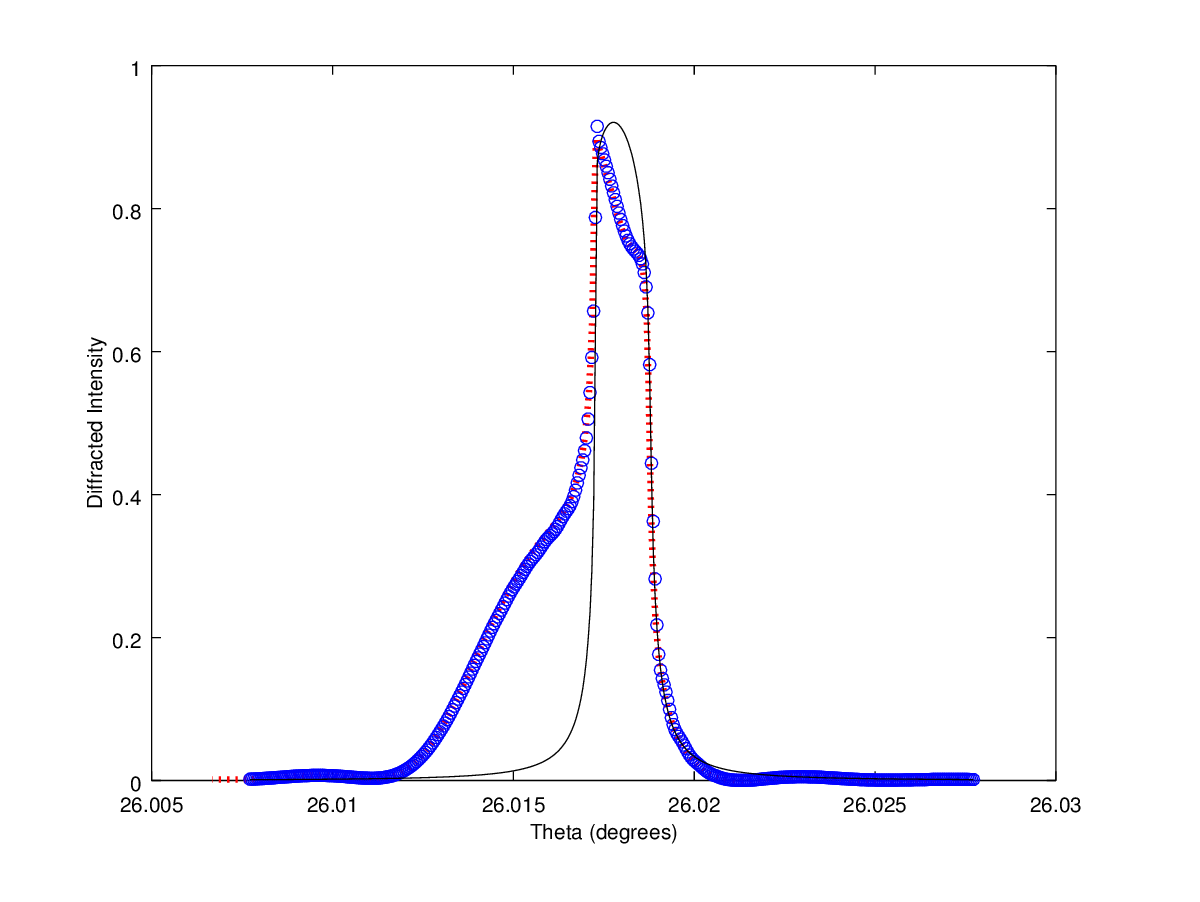
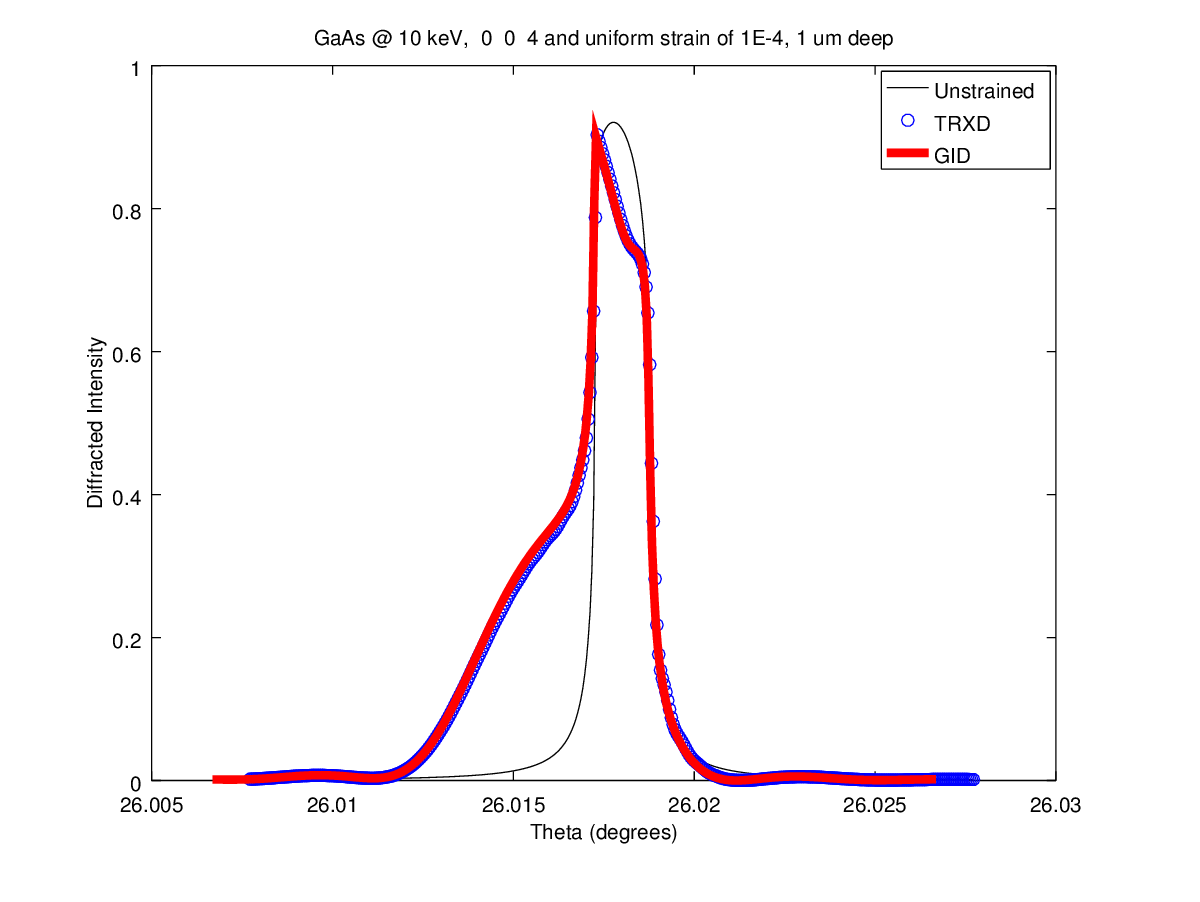
greement with GID

diff --git a/TXRD_Driver_example.m b/TXRD_Driver_example.m
@@ -34,19 +34,23 @@ elseif strcmp(model,'benchmark')
   benchmark = load('benchmark.txt');
   Int_BM = benchmark(:,2);
   Ang_BM = benchmark(:,1);
-  figure(20);clf;hold on;
-    plot(Ang_BM,Int_BM,':r','LineWidth',3)
-    plot(angles*180/pi, A,'ob')
+  figure(20);clf;hold all;
     plot(angles*180/pi, A0,'-k')
+    plot(angles*180/pi, A,'ob')
+    plot(Ang_BM,Int_BM,'r','LineWidth',4)
     xlabel('Theta (degrees)')
     ylabel('Diffracted Intensity')
+    legend(['Unstrained';'TRXD';'GID'])
+    title([num2str(crystal) ' @ ' num2str(energy) ' keV,  ' num2str(reflection) ' and uniform strain of 1E-4, 1 um deep'])
   hold off;
-  figure(21);clf;hold on;
-    semilogy(Ang_BM,Int_BM,':r','LineWidth',3)
-    semilogy(angles*180/pi, A,'ob')
+  figure(21);clf;hold all;
     semilogy(angles*180/pi, A0,'-k')
+    semilogy(angles*180/pi, A,'ob')
+    semilogy(Ang_BM,Int_BM,'r','LineWidth',4)
     xlabel('Theta (degrees)')
     ylabel('Diffracted Intensity')
+    legend(['Unstrained';'TRXD';'GID'])
+    title([num2str(crystal) ' @ ' num2str(energy) ' keV,  ' num2str(reflection) ' and uniform strain of 1E-4, 1 um deep'])
   hold off;
 
 end

diff --git a/main/Wiestep.m b/main/Wiestep.m
@@ -83,8 +83,8 @@ cond3b = (y >= q2);
 cond3 = cond3a .* cond3b;  % logical AND
 cond4 = (y > q1);
 % Finally multiply each condition by the appropriate calculation and add all arrays
-s = cond1.*(s1 + 1i*s2) + cond2.*(s2 + 1i*s1) - cond3.*(-s2 + 1i*s1) + cond4.*(-s1 + 1i*s2);
-% Note above changed sign in front of cond3 to minus
+s = cond1.*(s1 + 1i*s2) - cond2.*(s2 + 1i*s1) - cond3.*(-s2 + 1i*s1) + cond4.*(-s1 + 1i*s2);
+% Note above changed sign in front of cond3 and cond2 to minus
 % Continue to calculate X_out for all angles
 B = -(1+1i*k);
 C = y + 1i*g;

diff --git a/main/Wie0.m b/main/Wie0.m
@@ -62,7 +62,7 @@ cond3 = cond3a .* cond3b;  % logical AND
 cond4 = (y > q1);
 % Finally multiply each condition by the appropriate calculation and add all arrays
 s = cond1.*(s1 + 1i*s2) + cond2.*(s2 + 1i*s1) + cond3.*(-s2 + 1i*s1) + cond4.*(-s1 + 1i*s2);
-% Note above changed sign in front of cond3 to plus
+% Note above changed sign in front of cond3 and cond 2 to plus
 % Continue to calculate X0 for all angles
 B = -(1+1i*k);
 C = y + 1i*g;
